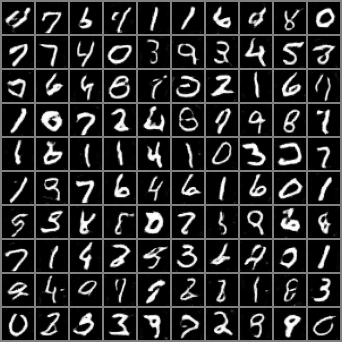
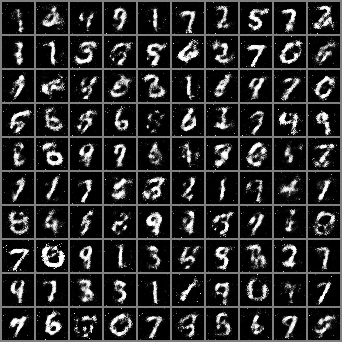
hw4

diff --git a/hw4/codes/GAN/main.py b/hw4/codes/GAN/main.py
@@ -36,13 +36,13 @@ def polate(le, ri, polate_cnt, pair_cnt):
     imgs = make_grid(imgs, nrow=polate_cnt) * 0.5 + 0.5
     print('saving to %s' % os.path.join('polate_imgs', path))
     save_image(imgs, os.path.join('polate_imgs', path))
-    
+
 
 def generate_sample():
     fixed_noise = torch.randn(100, args.latent_dim, 1, 1, device=device)
     imgs = make_grid(netG(fixed_noise), nrow=10) * 0.5 + 0.5
     save_image(imgs, "samples.png")
-    
+
 
 if __name__ == "__main__":
     parser = argparse.ArgumentParser()
@@ -62,7 +62,7 @@ if __name__ == "__main__":
     parser.add_argument('--log_dir', default='./runs', type=str)
     args = parser.parse_args()
 
-    config = 'z-{}_h-{}_batch-{}_num-train-steps-{}'.format(args.latent_dim, args.generator_hidden_dim, args.batch_size, args.num_training_steps)
+    config = 'z-{}_h-{}_batch-{}_num-train-steps-{}-MLP'.format(args.latent_dim, args.generator_hidden_dim, args.batch_size, args.num_training_steps)
     args.ckpt_dir = os.path.join(args.ckpt_dir, config)
     args.log_dir = os.path.join(args.log_dir, config)
     device = torch.device('cuda' if torch.cuda.is_available() and not args.no_cuda else 'cpu')
@@ -81,31 +81,31 @@ if __name__ == "__main__":
     restore_ckpt_path = os.path.join(args.ckpt_dir, str(max(int(step) for step in os.listdir(args.ckpt_dir))))
     netG.restore(restore_ckpt_path)
     
-    # polate(-1, 2, 10, 10)
-    generate_sample()
+    # polate(0, 1, 10, 10)
+    # generate_sample()
 
-    # num_samples = 3000
-    # real_imgs = None
-    # real_dl = iter(dataset.training_loader)
-    # while real_imgs is None or real_imgs.size(0) < num_samples:
-    #     imgs = next(real_dl)
-    #     if real_imgs is None:
-    #         real_imgs = imgs[0]
-    #     else:
-    #         real_imgs = torch.cat((real_imgs, imgs[0]), 0)
-    # real_imgs = real_imgs[:num_samples].expand(-1, 3, -1, -1) * 0.5 + 0.5
+    num_samples = 3000
+    real_imgs = None
+    real_dl = iter(dataset.training_loader)
+    while real_imgs is None or real_imgs.size(0) < num_samples:
+        imgs = next(real_dl)
+        if real_imgs is None:
+            real_imgs = imgs[0]
+        else:
+            real_imgs = torch.cat((real_imgs, imgs[0]), 0)
+    real_imgs = real_imgs[:num_samples].expand(-1, 3, -1, -1) * 0.5 + 0.5
 
-    # with torch.no_grad():
-    #     samples = None
-    #     while samples is None or samples.size(0) < num_samples:
-    #         imgs = netG.forward(torch.randn(args.batch_size, netG.latent_dim, 1, 1, device=device))
-    #         if samples is None:
-    #             samples = imgs
-    #         else:
-    #             samples = torch.cat((samples, imgs), 0)
-    # samples = samples[:num_samples].expand(-1, 3, -1, -1) * 0.5 + 0.5
-    # samples = samples.cpu()
+    with torch.no_grad():
+        samples = None
+        while samples is None or samples.size(0) < num_samples:
+            imgs = netG.forward(torch.randn(args.batch_size, netG.latent_dim, 1, 1, device=device))
+            if samples is None:
+                samples = imgs
+            else:
+                samples = torch.cat((samples, imgs), 0)
+    samples = samples[:num_samples].expand(-1, 3, -1, -1) * 0.5 + 0.5
+    samples = samples.cpu()
 
-    # fid = fid_score.calculate_fid_given_images(real_imgs, samples, args.batch_size, device)
-    # tb_writer.add_scalar('fid', fid)
-    # print("FID score: {:.3f}".format(fid), flush=True)
+    fid = fid_score.calculate_fid_given_images(real_imgs, samples, args.batch_size, device)
+    tb_writer.add_scalar('fid', fid)
+    print("FID score: {:.3f}".format(fid), flush=True)

diff --git a/hw4/codes/GAN/GAN.py b/hw4/codes/GAN/GAN.py
@@ -28,6 +28,27 @@ class Generator(nn.Module):
         self.latent_dim = latent_dim
 
 		# TODO START
+        # MLP_based
+        # self.decoder = nn.Sequential(
+        #     # (latent_dim,)
+        #     nn.Linear(latent_dim, 128),
+        #     nn.BatchNorm1d(128),
+        #     nn.ReLU(),
+        #     # (128,)
+        #     nn.Linear(128, 256),
+        #     nn.BatchNorm1d(256),
+        #     nn.ReLU(),
+        #     # (256,)
+        #     nn.Linear(256, 512),
+        #     nn.BatchNorm1d(512),
+        #     nn.ReLU(),
+        #     # (512,)
+        #     nn.Linear(512, 1024),
+        #     nn.Tanh(),
+        #     # (1024,)
+        # )
+        
+        # CNN_based
         self.decoder = nn.Sequential(
             # (latent_dim, 1, 1)
             nn.ConvTranspose2d(latent_dim, hidden_dim * 4, kernel_size=4, stride=1, padding=0),
@@ -54,6 +75,9 @@ class Generator(nn.Module):
             *   z (torch.FloatTensor): [batch_size, latent_dim, 1, 1]
         '''
         z = z.to(next(self.parameters()).device)
+        # MLP_based
+        # return self.decoder(z.squeeze(-1).squeeze(-1)).reshape(-1, 1, 32, 32)
+        # CNN_based
         return self.decoder(z)
 
     def restore(self, ckpt_dir):
@@ -78,6 +102,27 @@ class Discriminator(nn.Module):
         super(Discriminator, self).__init__()
         self.num_channels = num_channels
         self.hidden_dim = hidden_dim
+        
+        # MLP_based
+        # self.clf = nn.Sequential(
+        #     # (1024,)
+        #     nn.Linear(1024, 512),
+        #     nn.Dropout(0.3),
+        #     nn.LeakyReLU(0.2, inplace=True),
+        #     # (512,)
+        #     nn.Linear(512, 256),
+        #     nn.Dropout(0.3),
+        #     nn.LeakyReLU(0.2, inplace=True),
+        #     # (256,)
+        #     nn.Linear(256, 128),
+        #     nn.Dropout(0.3),
+        #     nn.LeakyReLU(0.2, inplace=True),
+        #     # (128,)
+        #     nn.Linear(128, 1),
+        #     nn.Sigmoid()
+        # )
+        
+        # CNN_based
         self.clf = nn.Sequential(
             # input is (num_channels) x 32 x 32
             nn.Conv2d(num_channels, hidden_dim, 4, 2, 1, bias=False),
@@ -96,6 +141,9 @@ class Discriminator(nn.Module):
         )
 
     def forward(self, x):
+        # MLP_based
+        # return self.clf(x.reshape(-1, 1024)).view(-1, 1).squeeze(1)
+        # CNN_based
         return self.clf(x).view(-1, 1).squeeze(1)
 
     def restore(self, ckpt_dir):
